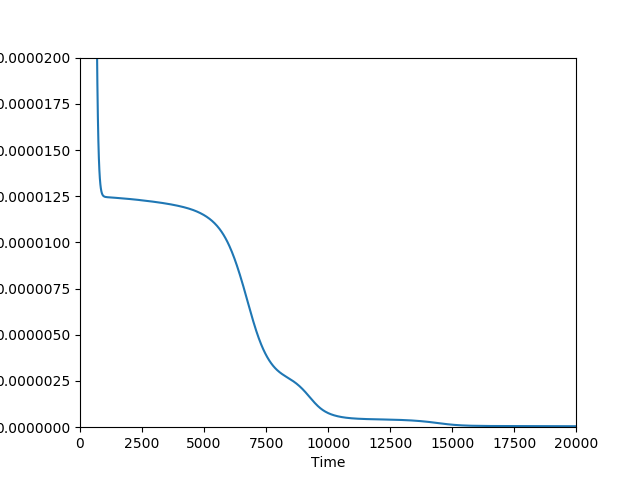
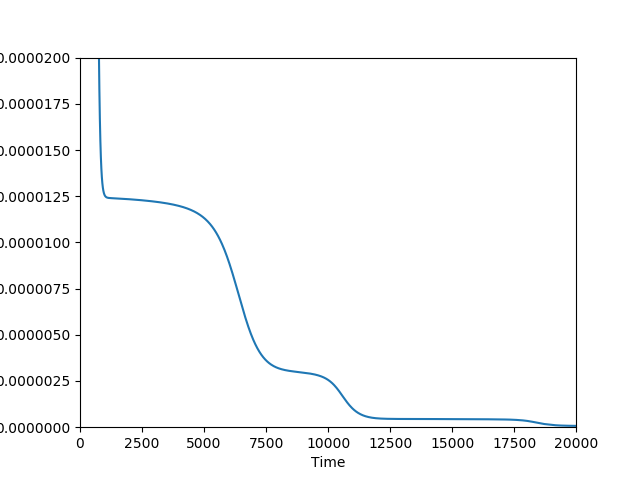
more results

diff --git a/model/model.py b/model/model.py
@@ -57,14 +57,13 @@ def make_sine(noise_type, num, window):
 
         return (x_train, y_train, x_test, y_test)
 
-def make_carrier(noise_type):
+def make_carrier():
 
         fs = 5e3
         N = 1e4
         amp = 2 * np.sqrt(2)
         time = np.arange(N) / float(fs)
         mod = 25*np.cos(2*np.pi*5*time)
-        #carrier = amp * np.sin(2*np.pi*3e3*time + mod)
         carrier = amp * np.sin(2*np.pi*2e3*time + mod) + amp*np.sin(2*np.pi*1e3*time)
         x = carrier
 
@@ -102,16 +101,15 @@ def make_carrier(noise_type):
         
         # Repeat Carrier at a very close frequency 
         #n_mod = 25*np.cos(2*np.pi*5*time)
-        noise = 2*amp * np.sin(2*np.pi*1.9e3*time)
-        n_start = int(len(time)*0.3)
-        n_end = int(len(time)*0.4)
-        noise[:n_start] *= 0
-        noise[n_end:] *= 0
-        x_n = carrier + noise
+        #noise = 2*amp * np.sin(2*np.pi*1.9e3*time)
+        #n_start = int(len(time)*0.3)
+        #n_end = int(len(time)*0.4)
+        #noise[:n_start] *= 0
+        #noise[n_end:] *= 0
+        #x_n = carrier + noise
 
 
         f, t, Sxx = signal.spectrogram(x, fs, window='blackmanharris', nperseg=63, noverlap=62)
-        f_n, t_n, Sxx_n = signal.spectrogram(x_n, fs, window='blackmanharris', nperseg=63, noverlap=62)
 
         #s_n = apply_noise(noise_type, s)
 
@@ -137,7 +135,7 @@ def make_carrier(noise_type):
         x_test = n_data[train_size:,:]
         y_test = data[train_size:,:]
 
-        return (x_train, y_train, x_test, y_test, f, t, data, Sxx_n.T)
+        return (x_train, y_train, x_test, y_test, f, t, data)
 
 def apply_noise(noise_type, s):
         num = len(s)
@@ -297,7 +295,7 @@ elif dataset_type == 2:
         Layer_1 = 32
         Layer_2 = 16
         Layer_3 = 8
-        (x_train, y_train, x_test, y_test, f, t, dat, n_dat) = make_carrier(noise_type)
+        (x_train, y_train, x_test, y_test, f, t, dat) = make_carrier()
 
 
 n_weights = {
@@ -380,6 +378,7 @@ with tf.Session() as sess:
         #data_path = "data/"
 
         l2norm = np.sum(np.square(p_pred_n - x_test), 1)
+        baseline = np.mean(l2norm)
 
         # Print the Dataset to a file
         #np.savetxt(data_path + 'data.out', x_test[:,0], delimiter=',')
@@ -394,10 +393,172 @@ with tf.Session() as sess:
         #print_biases(data_path, n_biases)
 
         #print_network(Layer_1, Layer_2, Layer_3)
+        
+        fs = 5e3
+        N = 1e4
+        amp = 2 * np.sqrt(2)
+        time = np.arange(N) / float(fs)
+        mod = 25*np.cos(2*np.pi*5*time)
+        carrier = amp * np.sin(2*np.pi*2e3*time + mod) + amp*np.sin(2*np.pi*1e3*time)
+            
+            # Blanket the Entire Signal With Noise
+            #noise_power = 0.001 * fs / 2
+            #noise = np.random.normal(scale=np.sqrt(noise_power), size=time.shape)
+            #x_n = carrier + noise
 
-        # Display some Results
-        p_pred = sess.run([pred], feed_dict={x: n_dat})[0]
-        l2norm = np.sum(np.square(p_pred - n_dat), 1)
+        noise_level = np.linspace(0.00001, 0.002, 100)
+        noise_level = np.concatenate((noise_level, np.linspace(0.002, 0.2, 100)))
+        gb_f_snr = []
+        gb_f_l2n = []
+
+        for n_l in noise_level:
+            # High Period of Noise for some time
+            noise_power = n_l * fs / 2
+            noise = np.random.normal(scale=np.sqrt(noise_power), size=time.shape)
+            n_start = int(len(time)*0.2)
+            n_end = int(len(time)*0.4)
+            noise[:n_start] *= 0
+            noise[n_end:] *= 0
+            x_n = carrier + noise
+            
+            # Calculate SNR
+            p_noise = 1/len(noise[n_start:n_end])*np.sum(np.square(np.abs(noise[n_start:n_end])))
+            p_sn = 1/len(x_n[n_start:n_end])*np.sum(np.square(np.abs(x_n[n_start:n_end])))
+            snr = 10*np.log10((p_sn - p_noise)/p_noise)
+            
+            f_n, t_n, Sxx_n = signal.spectrogram(x_n, fs, window='blackmanharris', nperseg=63, noverlap=62)
+            n_dat = Sxx_n.T
+
+            # Display some Results
+            p_pred = sess.run([pred], feed_dict={x: n_dat})[0]
+            l2norm = np.sum(np.square(p_pred - n_dat), 1)
+            gb_f_snr.append(snr)
+            gb_f_l2n.append(np.mean(l2norm[n_start:n_end])/baseline)
+            
+            #print("%.3f - SNR(dB): %.2f, L2-Norm: %.4f, Baseline: %.4f" % (n_l, snr, np.mean(l2norm[n_start:n_end]), np.mean(l2norm[n_end:])))
+
+
+        noise_level = np.linspace(0.1, 1, 100)
+        noise_level = np.concatenate((noise_level, np.linspace(1, 21, 100)))
+        rs_f_snr = []
+        rs_f_l2n = []
+
+        for n_l in noise_level:
+            # Rogue Signal for sometime
+            noise = n_l*amp * np.sin(2*np.pi*5e2*time + mod)
+            n_start = int(len(time)*0.6)
+            n_end = int(len(time)*0.7)
+            noise[:n_start] *= 0
+            noise[n_end:] *= 0
+            x_n = carrier + noise
+            
+            # Calculate SNR
+            p_noise = 1/len(noise[n_start:n_end])*np.sum(np.square(np.abs(noise[n_start:n_end])))
+            p_sn = 1/len(x_n[n_start:n_end])*np.sum(np.square(np.abs(x_n[n_start:n_end])))
+            snr = 10*np.log10((p_sn - p_noise)/p_noise)
+            
+            f_n, t_n, Sxx_n = signal.spectrogram(x_n, fs, window='blackmanharris', nperseg=63, noverlap=62)
+            n_dat = Sxx_n.T
+
+            # Display some Results
+            p_pred = sess.run([pred], feed_dict={x: n_dat})[0]
+            l2norm = np.sum(np.square(p_pred - n_dat), 1)
+            rs_f_snr.append(snr)
+            rs_f_l2n.append(np.mean(l2norm[n_start:n_end])/baseline)
+            
+            #print("%.3f - SNR(dB): %.2f, L2-Norm: %.4f, Baseline: %.4f" % (n_l, snr, np.mean(l2norm[n_start:n_end]), np.mean(l2norm[n_end:])))
+            
+        noise_level = np.linspace(0.1, 0.999999, 200)
+
+        tc_f_snr = []
+        tc_f_l2n = []
+
+        for n_l in noise_level:
+            # Tampering with the main carrier
+            n_mod = 25*np.cos(2*np.pi*5*time)
+            noise = -n_l*amp * np.sin(2*np.pi*2e3*time + mod) # Cancel
+            #noise = amp * np.sin(2*np.pi*2e3*time + mod) # Boost
+            n_start = int(len(time)*0.4)
+            n_end = int(len(time)*0.55)
+            noise[:n_start] *= 0
+            noise[n_end:] *= 0
+            x_n = carrier + noise
+            
+            # Calculate SNR
+            p_noise = 1/len(noise[n_start:n_end])*np.sum(np.square(np.abs(noise[n_start:n_end])))
+            p_sn = 1/len(x_n[n_start:n_end])*np.sum(np.square(np.abs(x_n[n_start:n_end])))
+            snr = 10*np.log10((p_sn - p_noise)/p_noise)
+            
+            f_n, t_n, Sxx_n = signal.spectrogram(x_n, fs, window='blackmanharris', nperseg=63, noverlap=62)
+            n_dat = Sxx_n.T
+
+            # Display some Results
+            p_pred = sess.run([pred], feed_dict={x: n_dat})[0]
+            l2norm = np.sum(np.square(p_pred - n_dat), 1)
+            tc_f_snr.append(snr)
+            tc_f_l2n.append(np.mean(l2norm[n_start:n_end])/baseline)
+            
+            #print("%.3f - SNR(dB): %.2f, L2-Norm: %.4f, Baseline: %.4f" % (n_l, snr, np.mean(l2norm[n_start:n_end]), np.mean(l2norm[n_end:])))
+       
+        noise_level = np.linspace(0.1, 1, 100)
+        noise_level = np.concatenate((noise_level, np.linspace(1, 21, 100)))
+
+        rc_f_snr = []
+        rc_f_l2n = []
+
+        for n_l in noise_level:
+            # Repeat Carrier at a very close frequency 
+            #n_mod = 25*np.cos(2*np.pi*5*time)
+            noise = n_l*amp * np.sin(2*np.pi*1.9e3*time)
+            n_start = int(len(time)*0.3)
+            n_end = int(len(time)*0.4)
+            noise[:n_start] *= 0
+            noise[n_end:] *= 0
+            x_n = carrier + noise
+
+            # Calculate SNR
+            p_noise = 1/len(noise[n_start:n_end])*np.sum(np.square(np.abs(noise[n_start:n_end])))
+            p_sn = 1/len(x_n[n_start:n_end])*np.sum(np.square(np.abs(x_n[n_start:n_end])))
+            snr = 10*np.log10((p_sn - p_noise)/p_noise)
+
+            
+            f_n, t_n, Sxx_n = signal.spectrogram(x_n, fs, window='blackmanharris', nperseg=63, noverlap=62)
+            n_dat = Sxx_n.T
+
+            # Display some Results
+            p_pred = sess.run([pred], feed_dict={x: n_dat})[0]
+            l2norm = np.sum(np.square(p_pred - n_dat), 1)
+            rc_f_snr.append(snr)
+            rc_f_l2n.append(np.mean(l2norm[n_start:n_end])/baseline)
+
+            #print("%.3f - SNR(dB): %.2f, L2-Norm: %.4f, Baseline: %.4f" % (n_l, snr, np.mean(l2norm[n_start:n_end]), np.mean(l2norm[n_end:])))
+
+        gb_f_snr = np.array(gb_f_snr)
+        gb_f_l2n = np.array(gb_f_l2n)
+        
+        rs_f_snr = np.array(rs_f_snr)
+        rs_f_l2n = np.array(rs_f_l2n)
+        
+        tc_f_snr = np.array(tc_f_snr)
+        tc_f_l2n = np.array(tc_f_l2n)
+        
+        rc_f_snr = np.array(rc_f_snr)
+        rc_f_l2n = np.array(rc_f_l2n)
+        #rc_f_l2n = rc_f_l2n / np.max(rc_f_l2n)
+
+        plt.semilogx(gb_f_l2n, gb_f_snr, label="Gaussian Band")
+        plt.semilogx(rs_f_l2n, rs_f_snr, label="Rogue Signal")
+        plt.semilogx(tc_f_l2n, tc_f_snr, label="Carrier Tampering")
+        plt.semilogx(rc_f_l2n, rc_f_snr, label="Repeat Carrier f shifted")
+        plt.legend(bbox_to_anchor=(0., 1.02, 1., .102), loc=3,
+                           ncol=2, mode="expand", borderaxespad=0.)
+        plt.ylim((-20, 20))
+        plt.margins(x=0,y=0)
+        plt.xlabel("Number of Times larger than the Basline")
+        plt.ylabel("SNR(dB)")
+        plt.savefig("snr_noise.png")
+        plt.show()
+        
 
         fig = figure(1)
 
@@ -411,7 +572,7 @@ with tf.Session() as sess:
         ax3.plot(t, l2norm)
         ax3.margins(x=0,y=0)
         
-        fig.savefig("noise_1.png")
+        #fig.savefig("noise_1.png")
         show()
         
         step_rate = np.array(step_rate)
